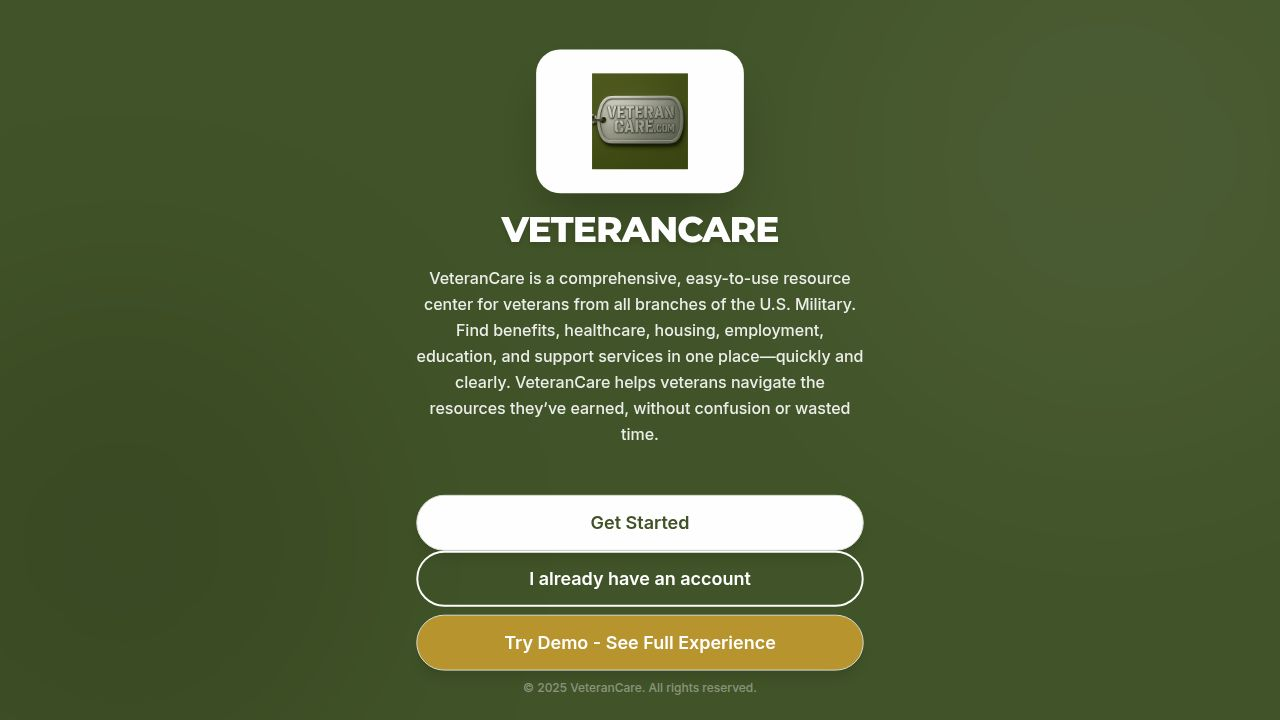
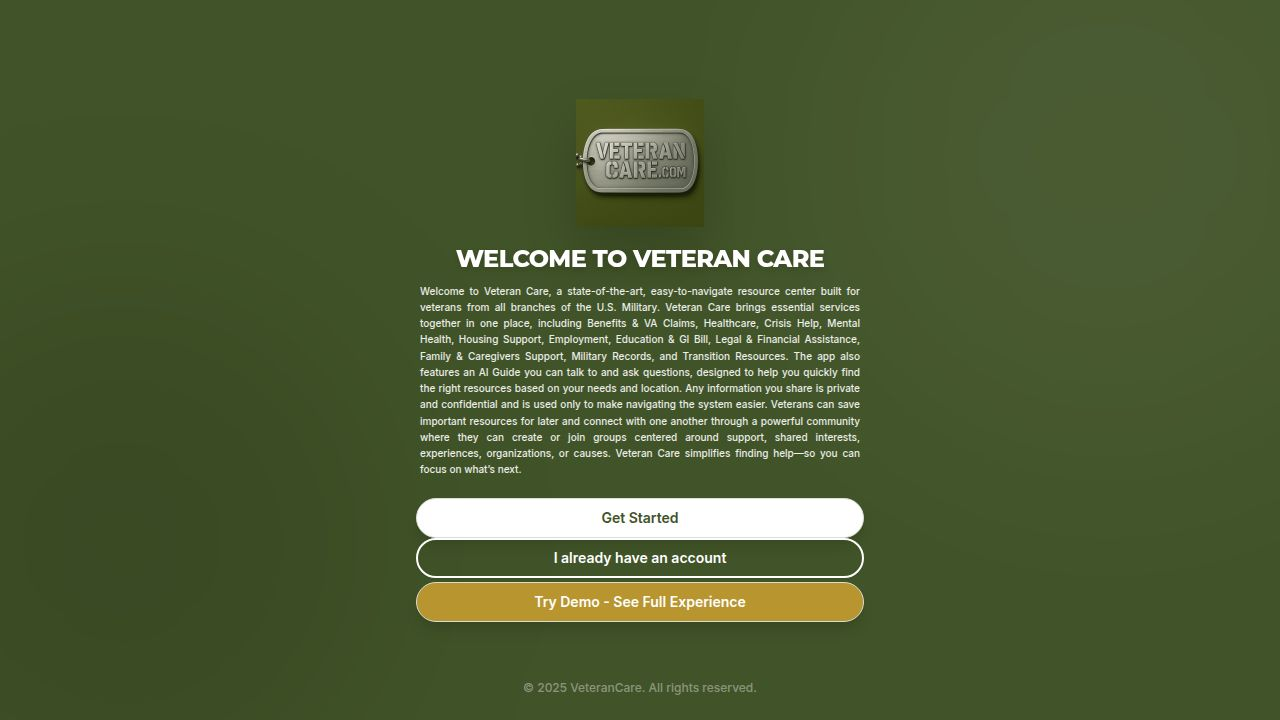
Update landing page text and adjust layout for better mobile viewing
Update landing page content with new welcome message and refine layout by resizing the logo, adjusting text sizes, and tightening spacing to ensure a compact, single-screen mobile experience.

Replit-Commit-Author: Agent
Replit-Commit-Session-Id: 3037d084-a823-459a-969c-d2fbe90af7b8
Replit-Commit-Checkpoint-Type: full_checkpoint
Replit-Commit-Event-Id: adcf2079-96a6-47c2-a60e-604ef5aa4fe0
Replit-Commit-Screenshot-Url: https://storage.googleapis.com/screenshot-production-us-central1/535ebb24-99e0-4f42-9aeb-43143912fe81/3037d084-a823-459a-969c-d2fbe90af7b8/ES9Eik0
Replit-Helium-Checkpoint-Created: true

Changed region(s): [[0.3125, 0.0611, 0.6875, 0.9472]]

diff --git a/client/src/pages/landing.tsx b/client/src/pages/landing.tsx
@@ -11,41 +11,41 @@ export default function Landing() {
       <div className="absolute bottom-[-10%] left-[-10%] w-[500px] h-[500px] bg-black/10 rounded-full blur-[100px] pointer-events-none" />
 
       {/* Content Container */}
-      <div className="relative z-10 w-full max-w-md flex flex-col items-center text-center space-y-8 animate-in fade-in zoom-in duration-700">
+      <div className="relative z-10 w-full max-w-md flex flex-col items-center text-center space-y-4 animate-in fade-in zoom-in duration-700">
         
         {/* Logo Section */}
-        <div className="mb-4 w-full flex justify-center transform hover:scale-105 transition-transform duration-500">
-          <div className="h-48 w-full max-w-[280px] flex items-center justify-center drop-shadow-2xl">
+        <div className="w-full flex justify-center transform hover:scale-105 transition-transform duration-500">
+          <div className="h-32 w-full max-w-[200px] flex items-center justify-center drop-shadow-2xl">
              <img src={logoImg} alt="VeteranCare Logo" className="h-full w-full object-contain" />
           </div>
         </div>
 
         {/* Text Section */}
         <div className="space-y-2 text-white">
-          <h1 className="text-3xl font-heading font-extrabold tracking-tight uppercase drop-shadow-md">
-            Veteran Care
+          <h1 className="text-2xl font-heading font-extrabold tracking-tight uppercase drop-shadow-md">
+            Welcome to Veteran Care
           </h1>
-          <p className="text-primary-foreground/90 text-xs leading-relaxed font-medium px-2">
-            Veteran Care is a comprehensive, easy-to-use resource center for veterans from all branches of the U.S. Military. Find benefits, healthcare, housing, employment, education, and support services in one place—quickly and clearly. Veteran Care helps veterans navigate the resources they’ve earned, without confusion or wasted time.
+          <p className="text-primary-foreground/90 text-[10px] leading-relaxed font-medium px-1 text-justify">
+            Welcome to Veteran Care, a state-of-the-art, easy-to-navigate resource center built for veterans from all branches of the U.S. Military. Veteran Care brings essential services together in one place, including Benefits & VA Claims, Healthcare, Crisis Help, Mental Health, Housing Support, Employment, Education & GI Bill, Legal & Financial Assistance, Family & Caregivers Support, Military Records, and Transition Resources. The app also features an AI Guide you can talk to and ask questions, designed to help you quickly find the right resources based on your needs and location. Any information you share is private and confidential and is used only to make navigating the system easier. Veterans can save important resources for later and connect with one another through a powerful community where they can create or join groups centered around support, shared interests, experiences, organizations, or causes. Veteran Care simplifies finding help—so you can focus on what’s next.
           </p>
         </div>
 
         {/* Buttons Section */}
-        <div className="w-full space-y-2 pt-2">
+        <div className="w-full space-y-2 pt-1">
           <Link href="/enable-location">
-            <Button className="w-full h-10 text-base font-bold bg-white text-primary hover:bg-white/90 rounded-full shadow-lg transition-all hover:scale-[1.02]">
+            <Button className="w-full h-10 text-sm font-bold bg-white text-primary hover:bg-white/90 rounded-full shadow-lg transition-all hover:scale-[1.02]">
               Get Started
             </Button>
           </Link>
 
           <Link href="/home">
-            <Button variant="outline" className="w-full h-10 text-base font-bold border-2 border-white text-white hover:bg-white/10 bg-transparent rounded-full transition-all hover:scale-[1.02]">
+            <Button variant="outline" className="w-full h-10 text-sm font-bold border-2 border-white text-white hover:bg-white/10 bg-transparent rounded-full transition-all hover:scale-[1.02]">
               I already have an account
             </Button>
           </Link>
           
           <Link href="/enable-location">
-             <Button className="w-full h-10 text-base font-bold bg-accent hover:bg-accent/90 text-white rounded-full shadow-lg mt-1 transition-all hover:scale-[1.02]">
+             <Button className="w-full h-10 text-sm font-bold bg-accent hover:bg-accent/90 text-white rounded-full shadow-lg mt-1 transition-all hover:scale-[1.02]">
                Try Demo - See Full Experience
              </Button>
           </Link>
